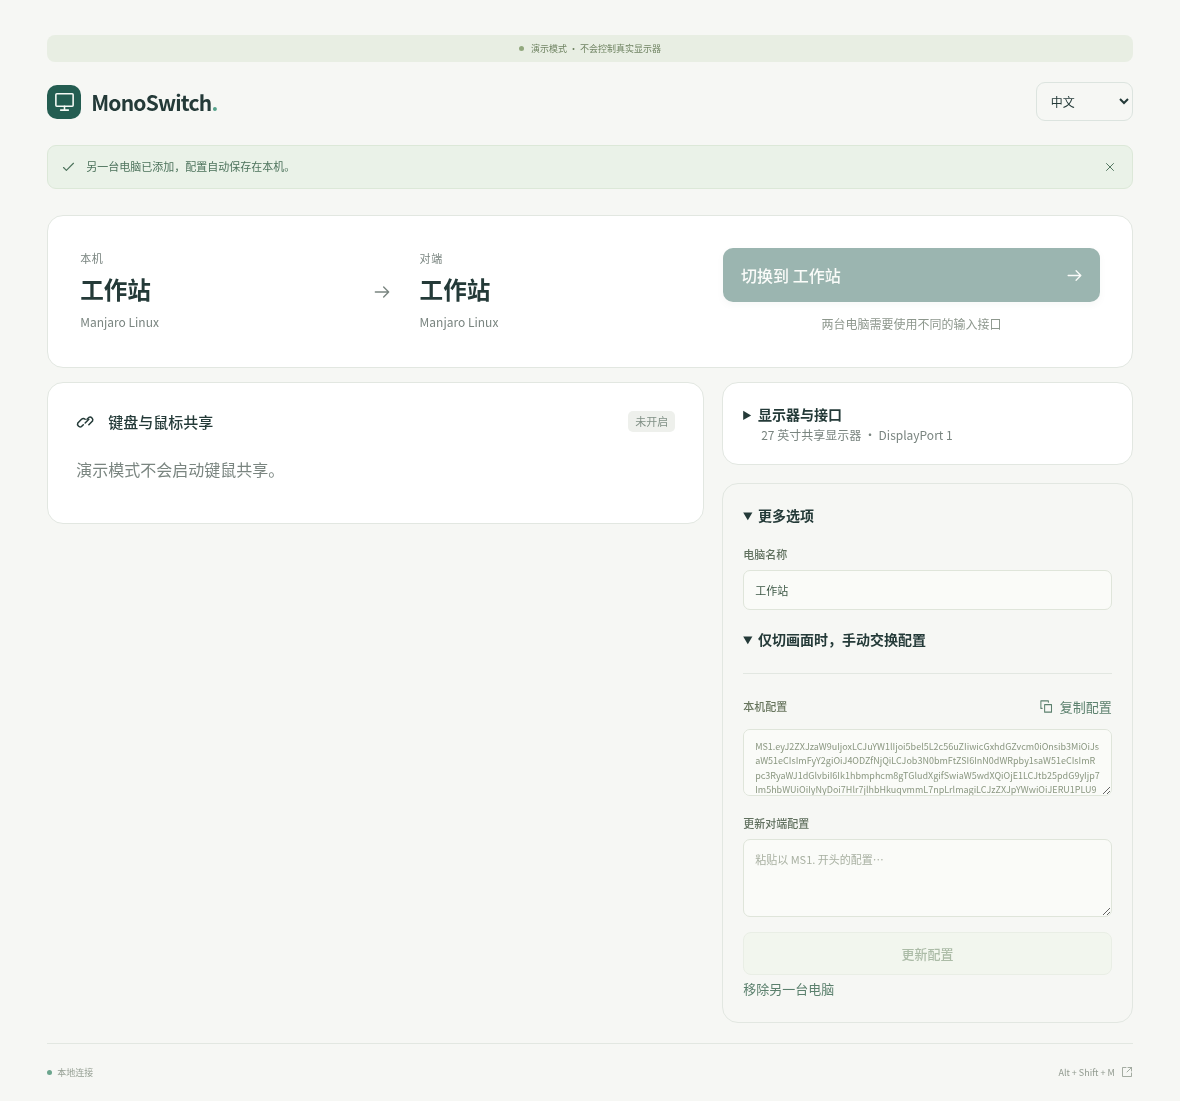
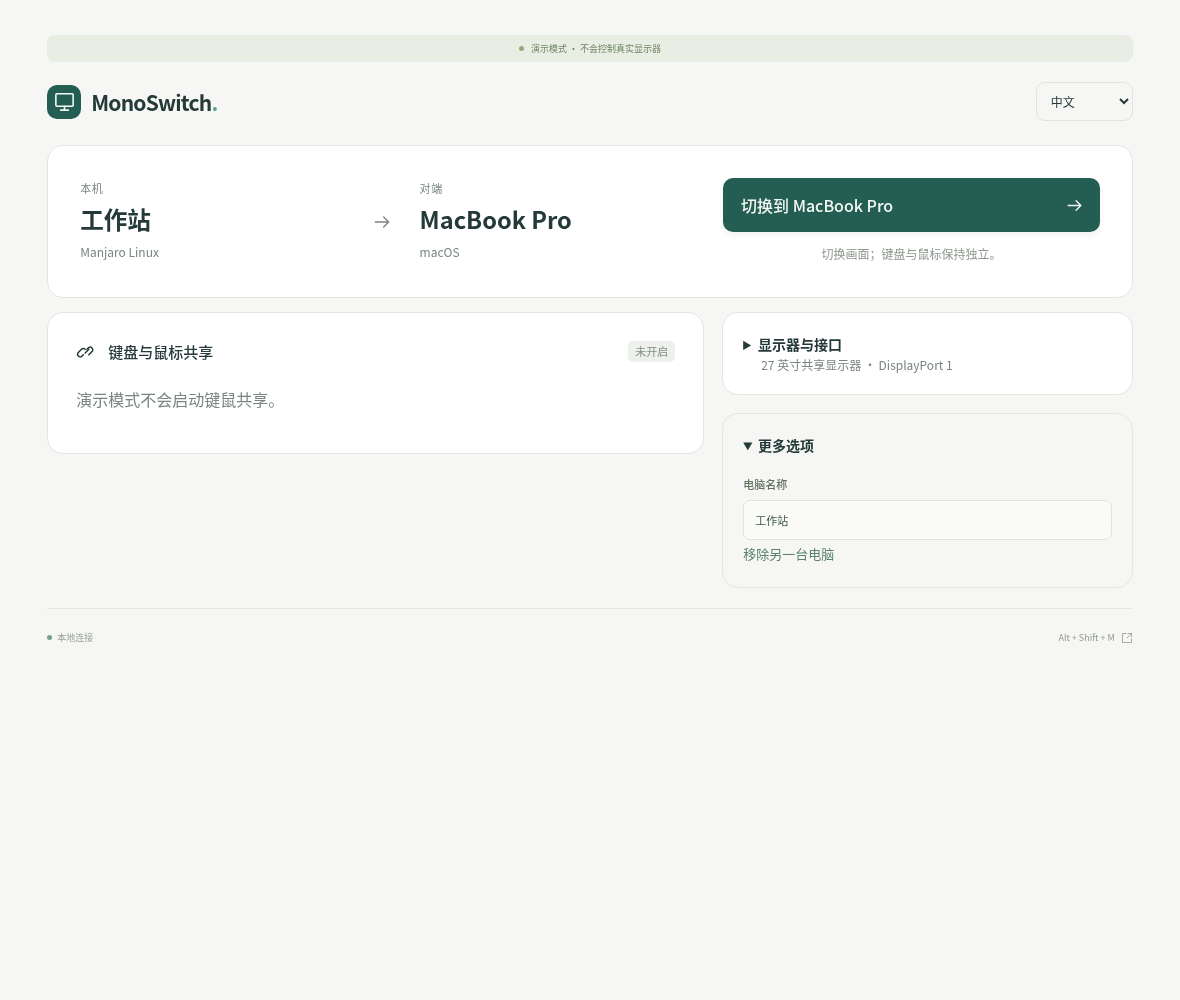
refactor: simplify pairing and add copy feedback

diff --git a/extension/src/App.vue b/extension/src/App.vue
@@ -7,9 +7,10 @@ import type {
   SwitchResult,
 } from '../../shared/protocol'
 import Icon from './Icon.vue'
+import CopyButton from './CopyButton.vue'
 import SharingPanel from './SharingPanel.vue'
 import { t, diagnostic, locale, setLocale } from './i18n'
-import { decodeProfile, encodeProfile, platformLabel } from './profiles'
+import { platformLabel } from './profiles'
 import {
   activeDisplay,
   inputLabel,
@@ -49,8 +50,6 @@ const settingsSync = createSettingsSync(saveSettings, () => {
   error.value = '配置保存失败，请重试。'
 })
 const { settings } = settingsSync
-const profileText = ref('')
-const profileError = ref('')
 const confirmed = ref(false)
 const latest = ref<Operation | null>(null)
 const shortcut = ref('Alt + Shift + M')
@@ -132,14 +131,6 @@ const ownProfile = computed<ComputerProfile | null>(() => {
     },
   }
 })
-const exportText = computed(() => {
-  if (!ownProfile.value) return ''
-  try {
-    return encodeProfile(ownProfile.value)
-  } catch {
-    return ''
-  }
-})
 const visibleOperation = computed(() =>
   latest.value && Date.now() - latest.value.timestamp < 10 * 60 * 1000
     ? latest.value
@@ -218,19 +209,6 @@ function checkInstallation(): void {
 
 function downloadInstaller(): void {
   void installerDownload.value?.download()
-}
-
-async function copyInstallCommand(): Promise<void> {
-  if (!installCommand.value) return
-  installCopyError.value = ''
-  try {
-    await navigator.clipboard.writeText(installCommand.value)
-    if (disposed) return
-    installCommandCopied.value = true
-    checkInstallation()
-  } catch {
-    if (!disposed) installCopyError.value = '复制失败，请选中上方命令手动复制。'
-  }
 }
 
 function openInstaller(): void {
@@ -345,26 +323,6 @@ function openShortcuts(): void {
     notice.value = '加载扩展后，在 chrome://extensions/shortcuts 中设置快捷键。'
 }
 
-async function copyProfile(): Promise<void> {
-  try {
-    await navigator.clipboard.writeText(exportText.value)
-    notice.value = '本机配置已复制，可粘贴到另一台电脑。'
-  } catch {
-    notice.value = '请选中下方配置文本并手动复制。'
-  }
-}
-
-function importProfile(): void {
-  profileError.value = ''
-  try {
-    settings.value.peer = decodeProfile(profileText.value)
-    profileText.value = ''
-    notice.value = '另一台电脑已添加，配置自动保存在本机。'
-  } catch (cause) {
-    profileError.value = cause instanceof Error ? cause.message : '配置无效。'
-  }
-}
-
 function onStorage(
   changes: Record<string, chrome.storage.StorageChange>,
   area: string,
@@ -458,10 +416,10 @@ onUnmounted(() => {
             <code tabindex="0" :aria-label='t("Linux 安装命令")'>{{ installCommand }}</code>
           </div>
           <p v-if="installCopyError" class="message danger" role="alert">{{ t(installCopyError) }}</p>
-          <button v-if="linuxInstall && installCommand" class="primary-button" @click="copyInstallCommand">
-            {{ t(installCommandCopied ? '再次复制安装命令' : '复制安装命令') }}
-            <Icon name="copy" :size="17" />
-          </button>
+          <CopyButton v-if="linuxInstall && installCommand" :text="installCommand" label="复制安装命令"
+            @start="installCopyError = ''; installCommandCopied = false"
+            @copied="installCommandCopied = true; checkInstallation()"
+            @error="installCopyError = '复制失败，请选中上方命令手动复制。'" />
           <button v-else-if="linuxInstall" class="primary-button" @click="installerDownload?.show()">{{ t("在文件夹中显示") }}<Icon name="external" :size="17" />
           </button>
           <button v-else-if="installer && downloadReady" class="primary-button" @click="openInstaller">
@@ -568,18 +526,11 @@ onUnmounted(() => {
           <button class="text-button" :disabled="refreshing || busy" @click="refresh"><Icon name="refresh" :size="15" :class="{ spinning: refreshing }" />{{ t('刷新显示器状态') }}</button>
         </details>
         <div v-if="display?.warning" class="message warning">{{ diagnostic(display.warning) }}</div>
-        <div v-if="sourceMismatch" class="message danger">{{ t('显示器序列号不一致。请确认两台电脑连接同一显示器后重新导出配置。') }}</div>
+        <div v-if="sourceMismatch" class="message danger">{{ t('显示器序列号不一致。请确认两台电脑连接同一显示器后重新配对。') }}</div>
         <details class="panel advanced-options">
           <summary>{{ t('更多选项') }}</summary>
           <label class="field"><span>{{ t('电脑名称') }}</span><input v-model="settings.localName" :placeholder="status.platform.hostname" maxlength="60" /></label>
           <button v-if="!demoMode" class="secondary-button" @click="upgrading = true; checkInstallation()">{{ t('重新下载组件') }}</button>
-          <details class="manual-pairing">
-            <summary>{{ t('仅切画面时，手动交换配置') }}</summary>
-            <div class="export-box"><div class="export-heading"><h3>{{ t('本机配置') }}</h3><button class="text-button" :disabled="!exportText" @click="copyProfile"><Icon name="copy" :size="15" />{{ t('复制配置') }}</button></div><textarea :value="exportText" readonly rows="3" :aria-label="t('本机导出配置')" :placeholder="t('选择显示器与本机接口后，即可生成配置。')" /></div>
-            <label class="field"><span>{{ t(settings.peer ? '更新对端配置' : '另一台电脑的配置') }}</span><textarea v-model="profileText" rows="3" maxlength="8192" :placeholder="t('粘贴以 MS1. 开头的配置…')" /></label>
-            <p v-if="profileError" class="inline-error" role="alert">{{ t(profileError) }}</p>
-            <button class="secondary-button" :disabled="!profileText.trim()" @click="importProfile">{{ t(settings.peer ? '更新配置' : '导入配置') }}</button>
-          </details>
           <p v-if="monitorUnverified" class="privacy-note">{{ t('缺少显示器序列号，无法核对是否为同一台显示器。请按实际接线确认。') }}</p>
           <button v-if="settings.peer && !sharingRunning" class="text-button" @click="settings.peer = null">{{ t('移除另一台电脑') }}</button>
         </details>

diff --git a/extension/src/SharingPanel.vue b/extension/src/SharingPanel.vue
@@ -4,6 +4,7 @@ import type { ComputerProfile, HostStatus, SharingIdentity, SharingStatus } from
 import { demoMode, request } from './bridge'
 import { t, diagnostic } from './i18n'
 import Icon from './Icon.vue'
+import CopyButton from './CopyButton.vue'
 
 const props = defineProps<{ host: HostStatus; profile: ComputerProfile | null }>()
 const emit = defineEmits<{ identity: [SharingIdentity | null]; upgrade: []; running: [boolean] }>()
@@ -12,7 +13,6 @@ const pending = ref(false)
 const error = ref('')
 const unsupported = ref(false)
 const code = ref('')
-const copied = ref(false)
 let timer: ReturnType<typeof setTimeout> | undefined
 let disposed = false
 function apply(value: SharingStatus) {
@@ -39,7 +39,7 @@ async function refresh() {
 }
 async function run(action: 'sharingInstall' | 'sharingStop' | 'sharingPairHost' | 'sharingPairJoin') {
   if (pending.value) return
-  pending.value = true; error.value = ''; copied.value = false
+  pending.value = true; error.value = ''
   try {
     const message = action === 'sharingPairHost' || action === 'sharingPairJoin'
       ? { action, profile: props.profile!, ...(action === 'sharingPairJoin' ? { code: code.value.trim() } : {}) }
@@ -53,10 +53,6 @@ async function run(action: 'sharingInstall' | 'sharingStop' | 'sharingPairHost' 
     apply(response.data)
   } catch (e) { error.value = e instanceof Error ? e.message : '无法启动键鼠共享。' }
   finally { pending.value = false }
-}
-async function copyCode() {
-  try { await navigator.clipboard.writeText(state.value?.pairingCode || ''); copied.value = true }
-  catch { error.value = '复制失败，请选中配对码手动复制。' }
 }
 onMounted(() => void refresh())
 onUnmounted(() => { disposed = true; clearTimeout(timer) })
@@ -94,7 +90,8 @@ onUnmounted(() => { disposed = true; clearTimeout(timer) })
           <h3>{{ t('等待另一台输入配对码') }}</h3>
           <p>{{ t('把下面的配对码发送到 HDMI 那台电脑，在它的键鼠共享区域粘贴并连接。只需这一次，不用再把配置复制回来。') }}</p>
           <textarea :value="state.pairingCode" readonly rows="3" :aria-label="t('一次性配对码')" />
-          <button class="primary-button" @click="copyCode">{{ t(copied ? '已复制配对码' : '复制配对码') }}</button>
+          <CopyButton :text="state.pairingCode" label="复制配对码"
+            @start="error = ''" @error="error = '复制失败，请选中配对码手动复制。'" />
           <p class="privacy-note">{{ t('配对码五分钟有效，仅发给自己的另一台电脑。配对成功后两边会自动连接。') }}</p>
           <button class="text-button" :disabled="pending" @click="run('sharingStop')">{{ t('取消配对') }}</button>
         </template>

diff --git a/extension/src/style.css b/extension/src/style.css
@@ -474,36 +474,6 @@ small {
   margin-top: 12px;
   font-size: 10px;
 }
-.export-box {
-  border-top: 1px solid var(--line);
-  padding-top: 19px;
-  margin-top: 22px;
-}
-.export-heading {
-  display: flex;
-  align-items: center;
-  justify-content: space-between;
-  margin-bottom: 9px;
-}
-.export-heading h3 {
-  font-size: 11px;
-  font-weight: 500;
-  color: #68765e;
-}
-.export-heading .text-button {
-  font-size: 10px;
-}
-.export-box textarea {
-  font-size: 9px;
-  line-height: 1.6;
-  color: #8a9780;
-}
-.export-box > p {
-  font-size: 9px;
-  color: #9aa38f;
-  margin-top: 8px;
-  line-height: 1.7;
-}
 .secondary-button {
   display: flex;
   align-items: center;
@@ -527,12 +497,6 @@ small {
   line-height: 1.9;
   color: #98a18d;
   margin-top: 15px;
-}
-.inline-error {
-  font-size: 10px;
-  line-height: 1.7;
-  color: #a76754;
-  margin-top: 8px;
 }
 .spinning {
   animation: spin 0.9s linear infinite;
@@ -675,7 +639,7 @@ small {
 .unified-page .setup-content { padding: 28px; }
 .unified-page .installer-platform { margin-bottom: 16px; }
 .unified-page .advanced-options { background: transparent; }
-.manual-pairing, .sharing-management { margin-top: 18px; }
+.sharing-management { margin-top: 18px; }
 .sharing-management .privacy-note { margin-bottom: 12px; }
 .unified-page .sharing-panel .panel-heading { flex-wrap: wrap; gap: 10px; }
 .unified-page .sharing-panel .panel-heading p { display: none; }
@@ -710,3 +674,6 @@ small {
   .unified-page .sharing-panel { padding: 28px; }
   .sharing-fields { gap: 28px; }
 }
+
+.copy-button.copy-success { background: #32755c; }
+.copy-button.copy-success:hover { background: #28634d; }

diff --git a/extension/src/CopyButton.vue b/extension/src/CopyButton.vue
@@ -1,0 +1,48 @@
+<script setup lang="ts">
+import { onUnmounted, ref, watch } from 'vue'
+import Icon from './Icon.vue'
+import { t } from './i18n'
+
+const props = defineProps<{ text: string; label: string }>()
+const emit = defineEmits<{ copied: []; error: []; start: [] }>()
+const state = ref<'idle' | 'copying' | 'copied'>('idle')
+let resetTimer: ReturnType<typeof setTimeout> | undefined
+let revision = 0
+
+function reset() {
+  revision++
+  clearTimeout(resetTimer)
+  state.value = 'idle'
+}
+
+async function copy() {
+  if (!props.text || state.value === 'copying') return
+  clearTimeout(resetTimer)
+  const current = ++revision
+  state.value = 'copying'
+  emit('start')
+  try {
+    await navigator.clipboard.writeText(props.text)
+    if (current !== revision) return
+    state.value = 'copied'
+    resetTimer = setTimeout(reset, 2000)
+    emit('copied')
+  } catch {
+    if (current !== revision) return
+    state.value = 'idle'
+    emit('error')
+  }
+}
+
+watch(() => props.text, reset)
+onUnmounted(reset)
+</script>
+
+<template>
+  <button class="primary-button copy-button" :class="{ 'copy-success': state === 'copied' }"
+    :disabled="!text || state === 'copying'" :aria-busy="state === 'copying'" @click="copy">
+    <span aria-live="polite">{{ t(state === 'copied' ? '已复制' : state === 'copying' ? '正在复制…' : label) }}</span>
+    <Icon :name="state === 'copied' ? 'check' : state === 'copying' ? 'refresh' : 'copy'"
+      :class="{ spinning: state === 'copying' }" :size="17" />
+  </button>
+</template>

diff --git a/extension/src/locales/en.ts b/extension/src/locales/en.ts
@@ -1,4 +1,7 @@
 export const english: Record<string, string> = {
+  "已复制": "Copied",
+  "正在复制…": "Copying…",
+  "显示器序列号不一致。请确认两台电脑连接同一显示器后重新配对。": "Monitor serial numbers differ. Connect both computers to the same monitor and pair again.",
   "连接管理": "Connection settings",
   "连接详情": "Connection details",
   "返回": "Back",

diff --git a/README.md b/README.md
@@ -131,9 +131,9 @@ BetterDisplay 需要保持运行。内置屏幕、部分 HDMI/转接器或显示
 2. 在接着键鼠的电脑生成配对码，在另一台粘贴并点击「连接并开启共享」（详见上方键鼠共享说明）。
 3. 以后点击页面顶部「切换到…」，画面与键鼠一起切换；配对后自动重连。
 
-「显示器与接口」可随时展开修改接线；电脑名称、重新下载组件和仅切画面的手动配置放在「更多选项」中。需要停止共享时，展开「连接管理」。
+「显示器与接口」可随时展开修改接线；电脑名称、重新下载组件放在「更多选项」中。需要停止共享时，展开「连接管理」。
 
-若只切画面、不使用键鼠共享，在两台电脑的「更多选项 → 仅切画面时，手动交换配置」中互相导入配置。更换接线后应更新本机接口并重新配对。
+本机系统、电脑名称及显示器信息由组件自动读取，配对时自动生成并交换双方配置，无需复制本机配置或来回导入。原有配对仍可使用。显示器当前输入不一定是本机接线，因此首次保留本机接口确认；更换接线后应更新接口并重新配对。
 
 有些显示器不能报告完整输入列表，界面会标注标准候选输入，需要根据实际接线手动确认。部分显示器只接受当前输入上的控制命令，因此默认操作流程是**在当前显示的电脑上切到另一台**。两台电脑均须已开机并输出视频。
 
